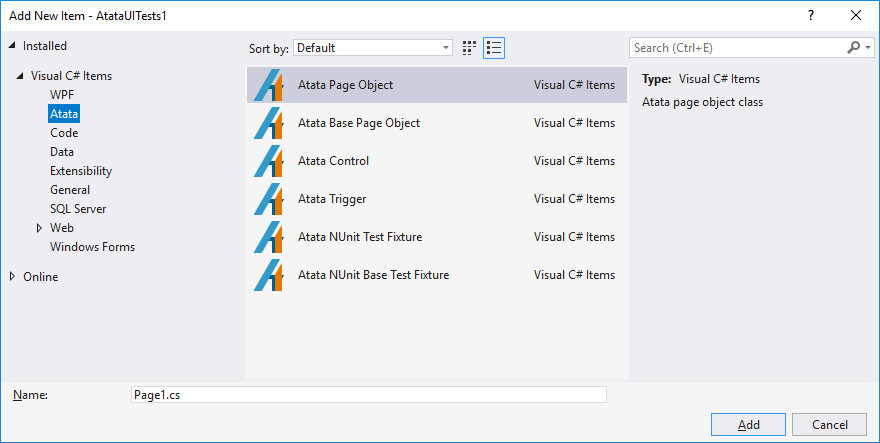
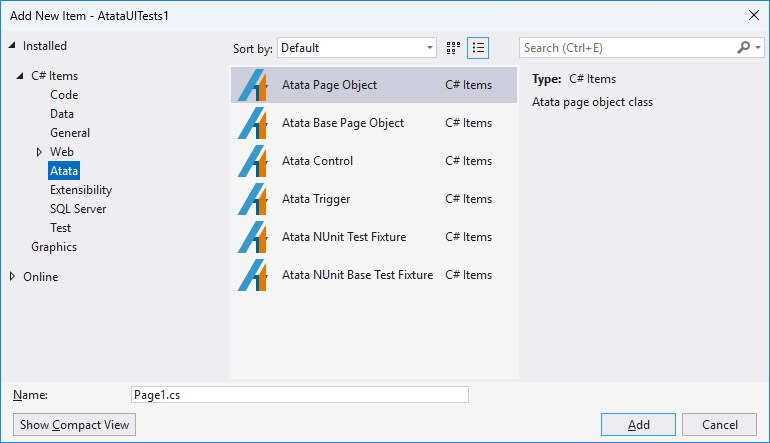
Update images

diff --git a/README.md b/README.md
@@ -24,9 +24,9 @@ The extension contains:
   - Atata NUnit Test Fixture
   - Atata NUnit Base Test Fixture
 
-![Add New Project window](images/new-project-window.png?v5)
+![Add New Project window](images/new-project-window.png?v6)
 
-![Add New Item window](images/new-item-window.png?v2)
+![Add New Item window](images/new-item-window.png?v3)
 
 All templates are located on Visual Studio's **New Project** and **New Item** windows inside **Atata** category.
 
